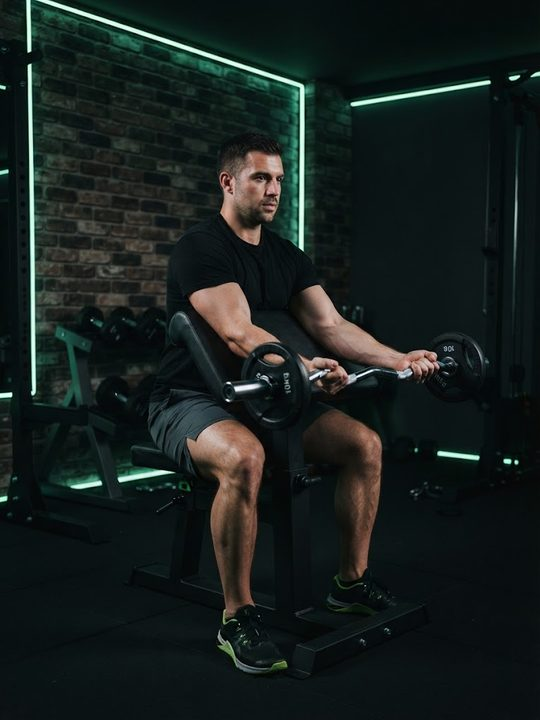
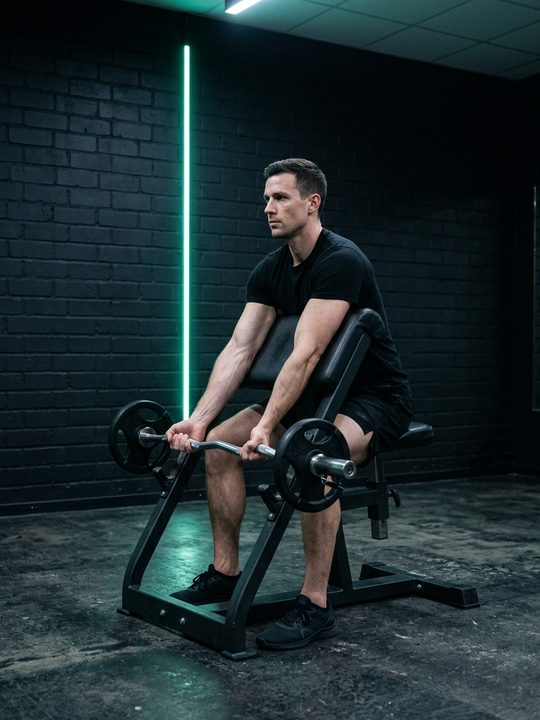
Männer-GIF preacher_curl
Claude-Session: https://claude.ai/code/session_01PvyiLGJFyas6muFwwubScp

diff --git a/script.js b/script.js
@@ -528,7 +528,7 @@ function renderOverview() {
 // V8-04: Wochenplan-Einträge (haben trainingId) sind anklickbar -> Detailseite mit Dauer/Kalorien.
 // V6-08: Verlauf als Foto-Kacheln mit Wochenkopf, Gruppierung nach Woche/Monat.
 let imgSet = new Set();
-fetch('img/index.json?v=240').then(r => r.json()).then(a => { imgSet = new Set(a); }).catch(() => {});
+fetch('img/index.json?v=241').then(r => r.json()).then(a => { imgSet = new Set(a); }).catch(() => {});
 function slugOf(g) { return (g || '').replace(/^gifs\//, '').replace(/\.gif$/, ''); }
 // Foto passend zum Profil (m/w); ohne Foto -> GIF
 function imgOf(ex) {
